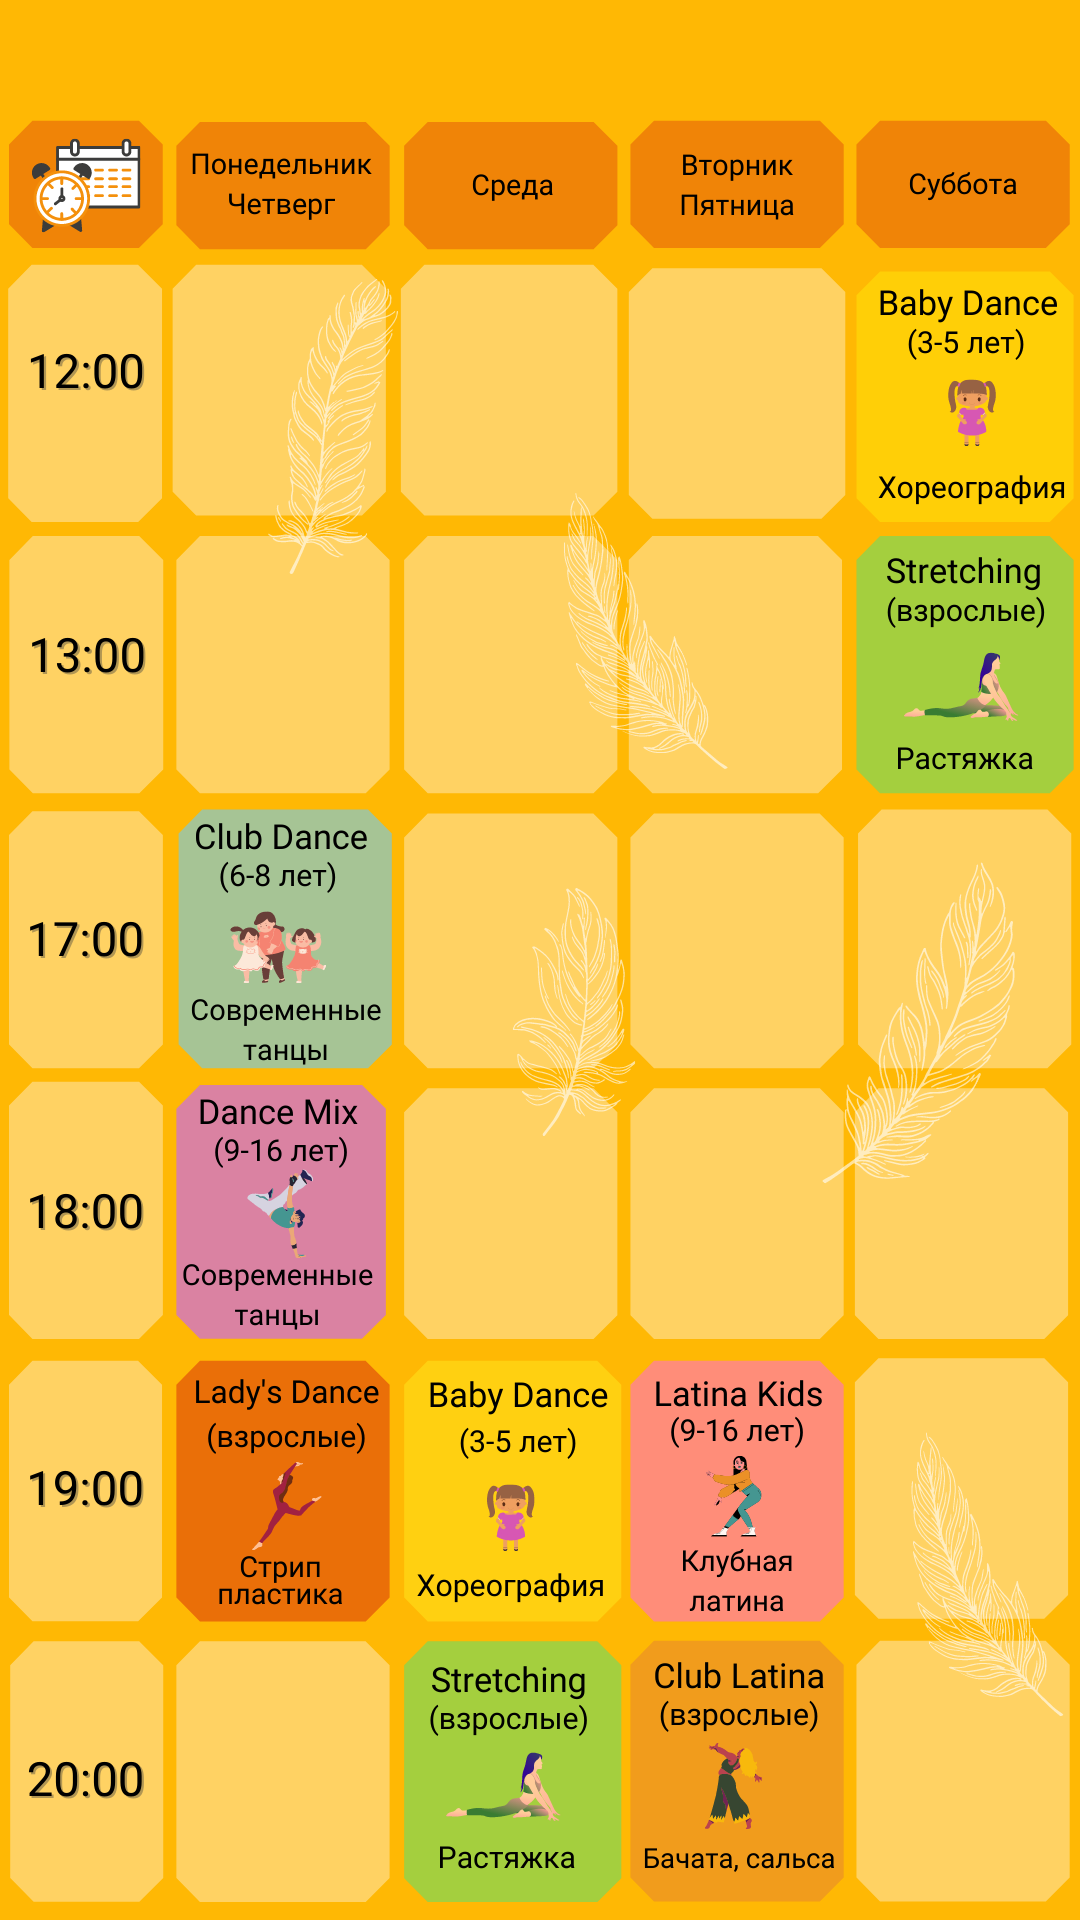
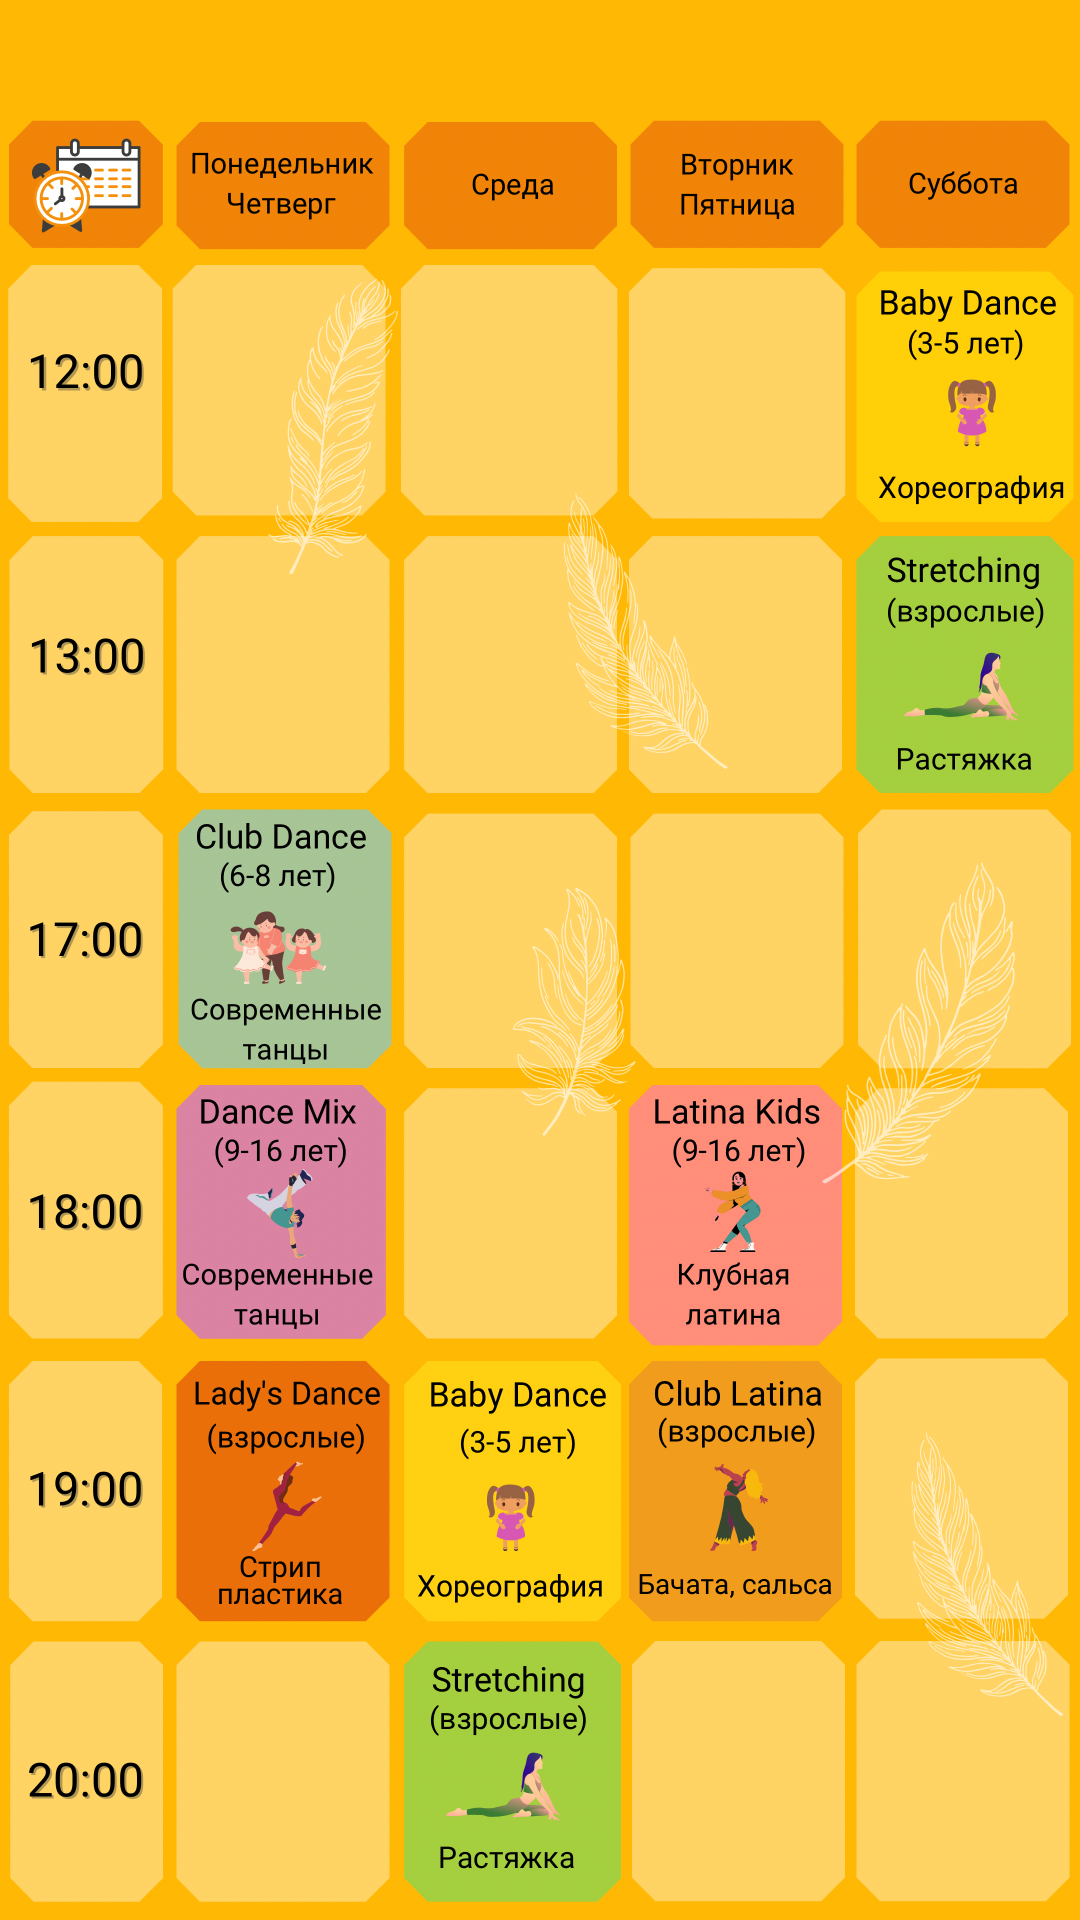
new timetable

diff --git a/napravleniya/index.html b/napravleniya/index.html
@@ -139,8 +139,8 @@
                         </h3>
                         <p>
                             <span class="card__text--style-pink">Дети 9-16 лет</span></br>
-                            Вт 19:00-20:00</br>
-                            Пт 19:00-20:00</br>
+                            Вт 18:00-19:00</br>
+                            Пт 18:00-19:00</br>
                             800р. - 1 занятие</br>
                             4000р. - 8 занятий
                         </p>
@@ -289,8 +289,8 @@
                         <p>
                             <span class="card__text--style-blue">Взрослые</span></br>    
                             <!-- <span class="card__text--style-red">Расписание уточняется</span></br></br>                         -->
-                            Вт 20:00-21:00</br>
-                            Пт 20:00-21:00</br>
+                            Вт 19:00-20:00</br>
+                            Пт 19:00-20:00</br>
                             800р. - 1 занятие</br>
                             4000р. - 8 занятий
                         </p>

diff --git a/napravleniya/hip-hop.html b/napravleniya/hip-hop.html
@@ -93,8 +93,8 @@
                         <p>
                             Дарья</br></br>
                             9-16 лет</br></br>
-                            Вт. 19:00 – 20:00</br>
-                            Пт. 19:00 – 20:00</br></br>
+                            Вт. 18:00 – 19:00</br>
+                            Пт. 18:00 – 19:00</br></br>
                             Кеды, лосины,</br>
                             футболка</br></br>
                             1 занятие - 800р.</br>

diff --git a/napravleniya/latina-solo.html b/napravleniya/latina-solo.html
@@ -92,8 +92,8 @@
                         <p>
                             Дарья</br></br>
                             От 17 лет</br></br>
-                            Вт 20:00 - 21:00 </br>
-                            Пт 20:00 - 21:00 </br></br>
+                            Вт 19:00 - 20:00 </br>
+                            Пт 19:00 - 20:00 </br></br>
                             Тянущаяся одежда,</br>
                             лосины, кроссовки.</br></br>
 
